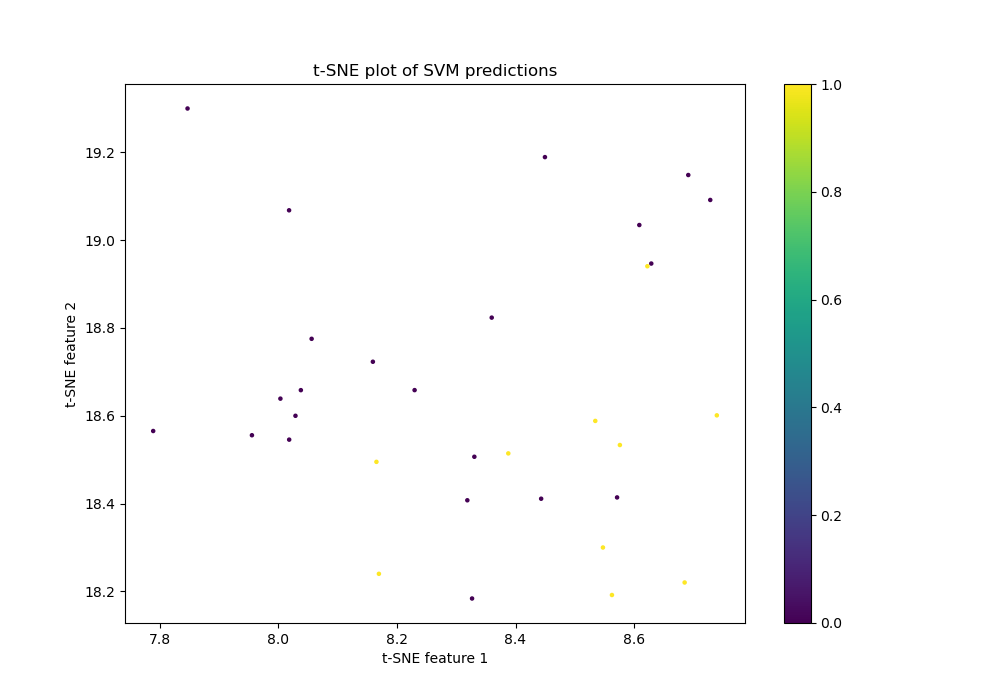
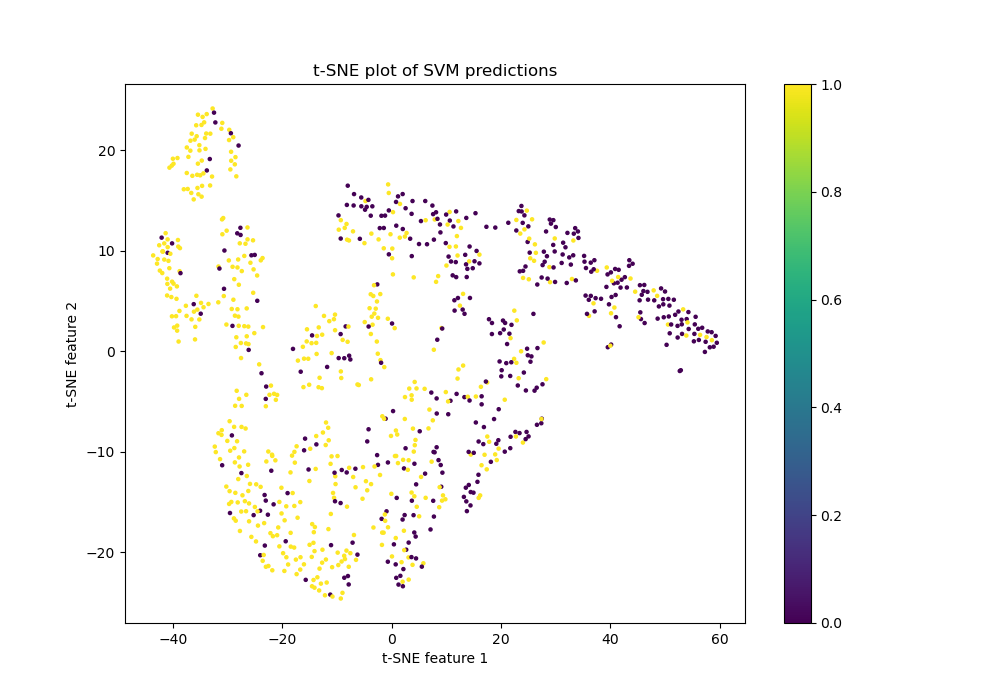
fixed tsne

diff --git a/old_notebooks/features-extractors/PathDino/PathDino_main_512.py b/old_notebooks/features-extractors/PathDino/PathDino_main_512.py
@@ -98,17 +98,6 @@ def plot_pca_variance(pca, output_dir):
     plt.close()
 
 def plot_tsne(features, labels, title, filename):
-    # Ensure that features is a 2D array
-    features = np.array(features)
-    if len(features.shape) == 1:
-        features = features.reshape(-1, 1)
-
-    # Check the number of samples and features
-    n_samples, n_features = features.shape
-    if n_samples < 2 or n_features < 2:
-        print(f"Insufficient data for t-SNE: n_samples={n_samples}, n_features={n_features}")
-        return
-
     tsne = TSNE(n_components=2, random_state=42)
     tsne_results = tsne.fit_transform(features)
 
@@ -144,17 +133,13 @@ def extract_embeddings(data_loader, model):
 
     with torch.no_grad():
         for i, (images, target) in enumerate(data_loader):
-            print(f"Processing batch {i + 1}/{len(data_loader)}")
             # Move each image tensor to the GPU
             images = [image.cuda(non_blocking=True) for image in images]
             # Forward pass
             output = model_to_use(images)
-            print(f"Output shape: {output.shape}")  # Debug statement
-            print(f"Target shape: {target.shape}")  # Debug statement
             
-            # Check dimensions of output and target
+            # Assuming the output is a list of embeddings from multiple crops
             if isinstance(output, list):
-                # Assuming the output is a list of embeddings from multiple crops
                 output = torch.cat(output, dim=0)
             embeddings.append(output.cpu().numpy())
 
@@ -162,53 +147,40 @@ def extract_embeddings(data_loader, model):
             repeated_labels = np.repeat(target.cpu().numpy(), output.shape[0] // target.shape[0])
             labels.append(repeated_labels)
 
-            # Process in batches to avoid memory issues
-            if len(embeddings) >= 10:  # Process every 10 batches
-                yield np.vstack(embeddings), np.hstack(labels)
-                embeddings, labels = [], []
-
-    # Yield remaining data
-    if embeddings:
-        yield np.vstack(embeddings), np.hstack(labels)
+    embeddings = np.vstack(embeddings)
+    labels = np.hstack(labels)
+    return embeddings, labels
 
 
-def incremental_pca_svm_train(data_loader, model, n_components=128, batch_size=10):
+def incremental_pca_svm_train(train_loader, model, n_components=128, batch_size=10):
     # Initialize the PCA, SVM, and Scaler
     pca = IncrementalPCA(n_components=n_components)
     scaler = StandardScaler()
-    svm = SGDClassifier(loss='hinge')  # Using SGDClassifier to fit SVM incrementally
+    svm = SGDClassifier(loss='hinge', max_iter=1000, tol=1e-3)  # Using SGDClassifier to fit SVM incrementally
 
-    # Extract embeddings for all data and fit PCA incrementally
-    for embeddings, labels in extract_embeddings(data_loader, model):
-        pca.partial_fit(embeddings)
-
-    # Transform the data using fitted PCA and scale it
-    for embeddings, labels in extract_embeddings(data_loader, model):
-        reduced_embeddings = pca.transform(embeddings)
-        reduced_embeddings = scaler.fit_transform(reduced_embeddings)
-        # Fit the SVM incrementally
-        svm.partial_fit(reduced_embeddings, labels, classes=np.unique(labels))
+    # Extract embeddings for all data
+    embeddings, labels = extract_embeddings(train_loader, model)
+    
+    # Scale and fit PCA
+    embeddings = scaler.fit_transform(embeddings)
+    pca.fit(embeddings)
+    
+    # Transform the data using fitted PCA
+    reduced_embeddings = pca.transform(embeddings)
+    
+    # Fit the SVM
+    svm.fit(reduced_embeddings, labels)
 
     return svm, pca, scaler
 
-def incremental_pca_svm_evaluate(data_loader, model, svm, pca, scaler):
-    all_embeddings = []
-    all_labels = []
+def incremental_pca_svm_evaluate(test_loader, model, svm, pca, scaler):
+    embeddings, labels = extract_embeddings(test_loader, model)
+    embeddings = scaler.transform(embeddings)
+    reduced_embeddings = pca.transform(embeddings)
 
-    for embeddings, labels in extract_embeddings(data_loader, model):
-        reduced_embeddings = pca.transform(embeddings)
-        reduced_embeddings = scaler.transform(reduced_embeddings)
-        all_embeddings.append(reduced_embeddings)
-        all_labels.append(labels)
-
-    all_embeddings = np.vstack(all_embeddings)
-    all_labels = np.hstack(all_labels)
-
-    predictions = svm.predict(all_embeddings)
-    # accuracy = accuracy_score(all_labels, predictions)
-    # print("Accuracy:", accuracy)
-    # print("Classification Report:\n", classification_report(all_labels, predictions))
-    return all_labels, predictions
+    predictions = svm.predict(reduced_embeddings)
+    
+    return labels, predictions
 
 def compute_mean_std(dataset):
     loader = torch.utils.data.DataLoader(dataset, batch_size=64, num_workers=4, shuffle=False)
@@ -442,7 +414,9 @@ def train_dino(args):
     print("Accuracy:", accuracy_score(y_test, y_pred))
     print("Classification Report:\n", classification_report(y_test, y_pred))
     
-    plot_tsne(y_test, y_pred, title="t-SNE plot of SVM predictions", filename=os.path.join(args.output_dir, "tsne_plot.png"))
+    # Plot t-SNE with correct features and labels
+    features, _ = extract_embeddings(test_loader, teacher)
+    plot_tsne(features, y_pred, title="t-SNE plot of SVM predictions", filename=os.path.join(args.output_dir, "tsne_plot.png"))
 
 
 def train_one_epoch(student, teacher, teacher_without_ddp, dino_loss, data_loader,
@@ -593,7 +567,7 @@ class DataAugmentationDINO(object):
         ])
         normalize = transforms.Compose([
             transforms.ToTensor(),
-            transforms.Normalize((0.7584, 0.6039, 0.7131), (0.1377, 0.1771, 0.1331)),
+            transforms.Normalize((0.8274, 0.6960, 0.8404), (0.1215, 0.1697, 0.0978)),
         ])
         
         rotator = transforms.RandomRotation(degrees=(0,360))
